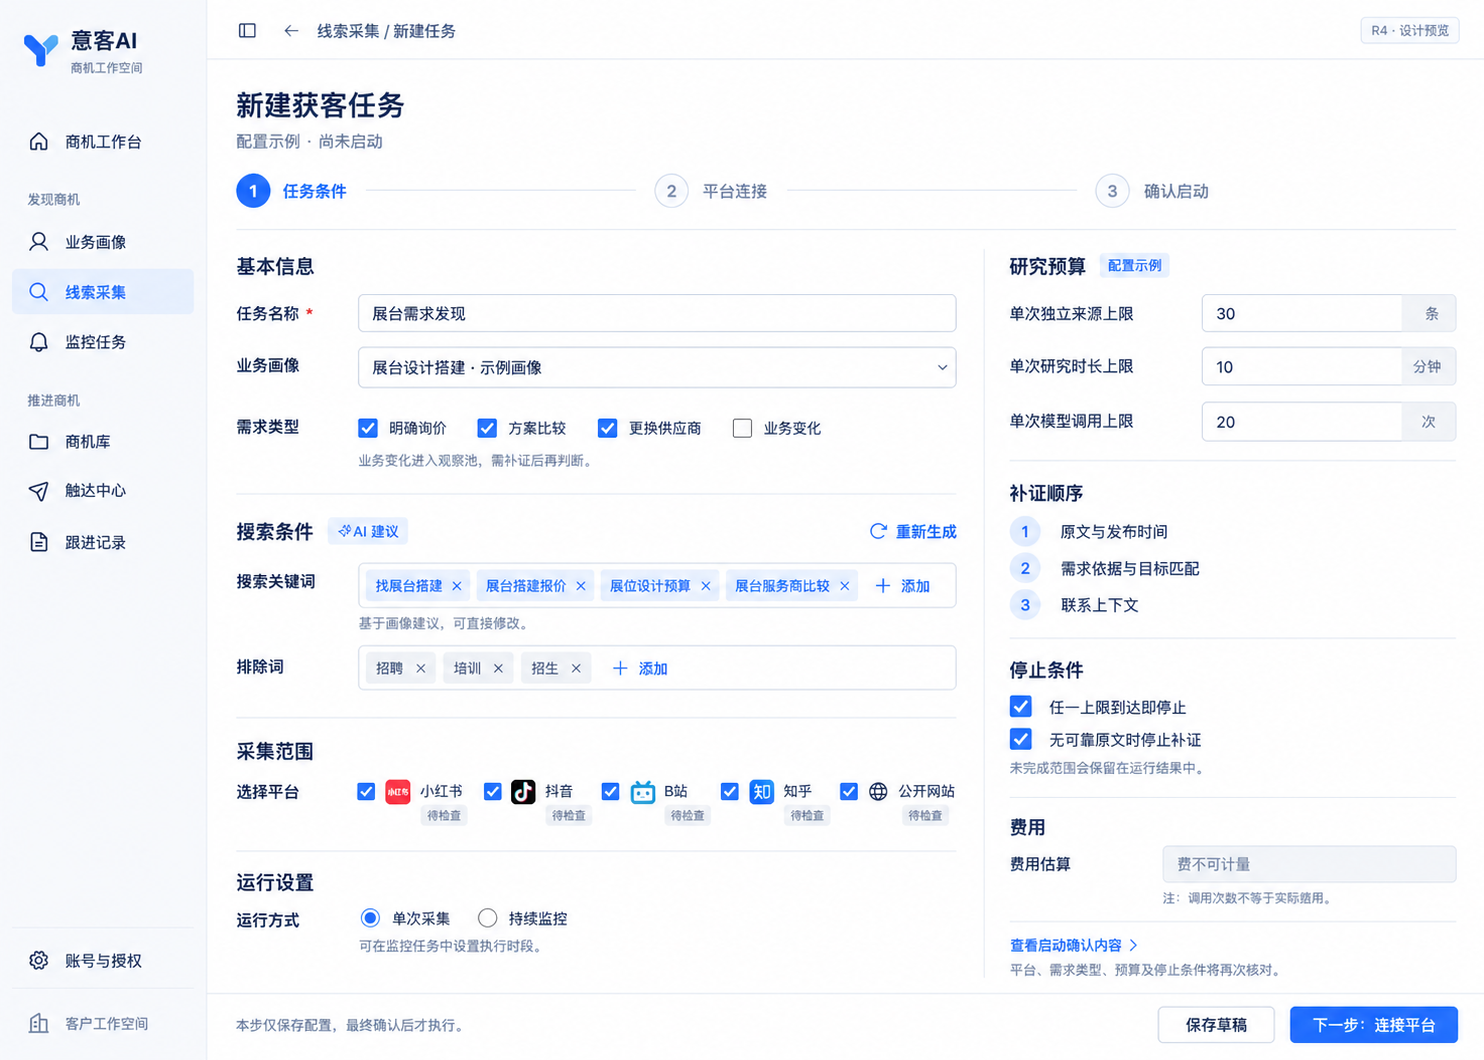
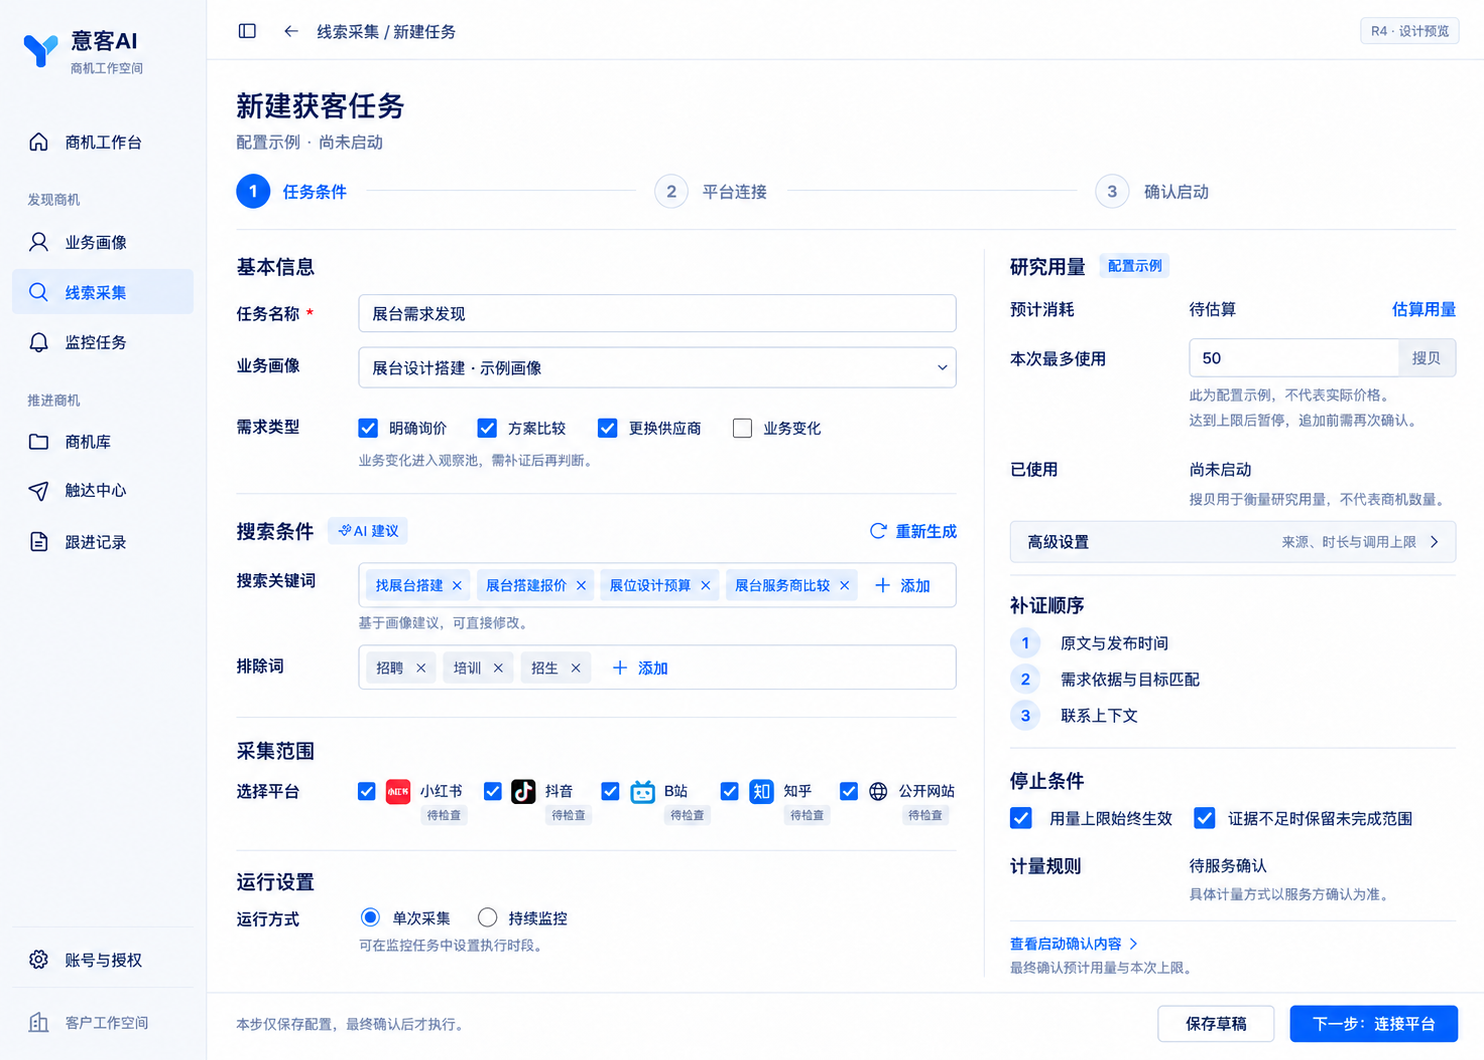
design: record R4 implementation approval and unified soubei usage

diff --git a/design/v02-suite-r4/APPROVAL.md b/design/v02-suite-r4/APPROVAL.md
@@ -8,10 +8,20 @@
 
 当时可供确认的对象为 [R4_CHANGE_IMPACT_DRAFT](../R4_CHANGE_IMPACT_DRAFT.md) 中的六组增量范围与商业分期，新的六张视觉尚未生成。记录状态为 `SCOPE_CONFIRMED_VISUAL_PENDING`。已有 R3 实现授权继续有效。
 
-## 待确认：本轮六张视觉
+## 历史：出图时六张视觉待确认
 
 六张新图在本次范围确认之后生成，最终交付文件及其 SHA-256 见 [manifest](manifest.json)。图册中的 P12、P09、P06、P10、P11、P02 为六个不同页面组，**不是六选一的替代方案**。用户可以整套确认，也可以按页面提出调整；按页面 ID 与图片摘要登记选择，不能按图在聊天中的到达先后猜测。
 
 当前六组视觉状态均为 `PENDING_USER_REVIEW`，没有记录用户批准这些新图。图内控件、数据和运行状态不是实现验收。图片生成文字及组件歧义按 [VISUAL_REVIEW](VISUAL_REVIEW.md) 校正。
 
 待用户选择后补记：原话、时间、页面 ID、所选图 SHA-256、修改意见及实际实施范围。不要覆盖本次范围确认的历史，也不要把后续确认回填成生成前已批准。
+
+## 最新：允许继续开发，统一搜贝用量
+
+同日用户在本图册打开后先要求：**“可以统一用个搜贝之类的来衡量？”**，随后明确：**“其余没问题，可以继续开发”**。
+
+据此，P12/P09/P10/P11/P02 及 P06 其余布局按当时最终图进入 `APPROVED_FOR_IMPLEMENTATION`。批准时的完整图片摘要保存在 [历史 manifest](history/manifest-before-visual-approval.json)，主图由提交 `40218e46ee844a55d65c6e69feaeb1465ebb163c` 固定，不能按后来生成图片的聊天顺序猜测选图。
+
+研究用量前台统一为“搜贝”，显示预计、最多、实际；底层仍保留来源/时长/调用硬上限，进入高级设置。换算规则及售价未定，不能造充值、余额或扣费结果。P06 搜贝修订图按这条修改要求随后生成，原图保留在 [修改前 P06](history/R4-03-P06-before-soubei.png)，新图摘要见当前 manifest。此项是用户要求的实现修改，不声称新图又获得过一次独立明确批准，也不重复索取整套开发授权。
+
+本次只授权继续功能开发与设计落地，不代表 R4 已完成、真实计量/执行服务已接通或产品已上线；真实验收继续进入原任务书。

diff --git a/design/v02-suite-r4/INTERACTION_CONTRACT.md b/design/v02-suite-r4/INTERACTION_CONTRACT.md
@@ -66,6 +66,8 @@
 
 客户文案区分三个概念：**研究用量上限**是来源数量、运行时长、模型调用等资源约束；**预计费用**是有真实计价依据的费用估算，无法计量时显示未知；**采购预算**是机会原文中的买方事实，不在任务配置中推定。图稿的“研究预算”目前指第一项，后续文案宜采用“研究用量上限”以免误解。
 
+用户后续要求用“搜贝”统一衡量：前台显示预计消耗、本次最多使用、实际已用；来源/时长/调用硬限制放高级设置。搜贝是研究用量单位，不是机会数量或买方预算。用量报价需绑定认证账户范围及版本、规则版本、任务配置摘要、用途、有效期；更改范围/画像/日程后报价失效。报价查询不扣用量，最终确认后才由服务端原子预留，真实明细结算实际消耗，未使用部分须服务端确证后释放。预留、已用、待结算、待释放与未知分开；超时不能前端自动扣减/释放，查询原请求。当前不定义售价、兑换比例、充值或真实账单后端，缺计量服务明确待估算。搜贝控制不能代替底层硬上限，无法落实所确认限制时阻止新受限任务执行。
+
 P03 继续负责确认业务画像与版本。需求类型建议读取该版本，在 P06/P20 修改，不给 P03 增加另一套自动生效的任务条件。若正式画像 schema 后续增加偏好类型，也仅作为建议输入，不能回写已确认任务；此项复用已有画像入口，不新增第七组主图。
 
 **配置流程**：在既有可编辑条件旁增加需求类型、固定补证顺序、研究上限和停止条件。询价、方案比较、更换供应商等由业务画像提出并允许修改，建议不是已发生的采购事实。开店/扩产等变化默认走观察规则。P20 保留每日/间隔、多个执行时间、时区、离线与重叠策略；重新生成需求类型或关键词不能改日程或预算。P19 只读当前最终快照，不再生成建议。

diff --git a/design/v02-suite-r4/INDEPENDENT_REVIEW.md b/design/v02-suite-r4/INDEPENDENT_REVIEW.md
@@ -1,0 +1,9 @@
+# R4 设计交付独立审核
+
+2026-09-09，候选 `40218e46ee844a55d65c6e69feaeb1465ebb163c`，基线 `9e27723b4513d184438da44628017c237e895fe0`。
+
+- 架构 Agent：PASS。暂停追加/终态新草稿、V1.0 同来源时间线和 P03 画像衔接三项歧义已收敛；预算术语和确认边界一致。
+- 代码 Agent：PASS。六图和参考 hash、尺寸、字节、提示词引用及137个本地引用有效；图册切换/对照/缩放/键盘/错误检查通过，未覆盖产品代码或 R3 设计。
+- 视觉与质量 Agent：PASS。独立查看六张最终图及 Y Logo，六组易于区分，公开样例不冒充真实客户结果；已登记文字和组件勘误须落地。
+
+均未发现本候选新增 P0/P1 或设计提交阻断。审核适用于设计与交接资料，不代表功能完成、真实服务或客户端验收。用户在该候选之后批准继续开发并提出搜贝修改；其后授权记录和 P06 修改不追溯为已被本次六图审查覆盖，新增实现需另行独立审核。

diff --git a/design/v02-suite-r4/VALIDATION.md b/design/v02-suite-r4/VALIDATION.md
@@ -11,3 +11,5 @@
 - `git diff --check`：通过。首次暂存检查发现 coach 提示词两处行尾空白，已仅规范化空白；PNG 原字节不变，修正后重新检查。
 
 R4 仍为六组主视觉待用户确认；静态页面验证不证明预算限制、短句服务、覆盖统计或时间线已实现。R3 审计报告中的 66 passed 只适用其中列明的既有前端套件，不能作为 R4 新能力通过的证据。
+
+上述为 `40218e46ee844a55d65c6e69feaeb1465ebb163c` 的出图验证快照。随后用户批准其余设计继续开发、要求搜贝用量，P06 已按要求另生成修订图；原六图 manifest 与原 P06 保存在 history，新批准状态见 APPROVAL.md。原验证不追溯升级为新代码或修改后图片的运行验收。
